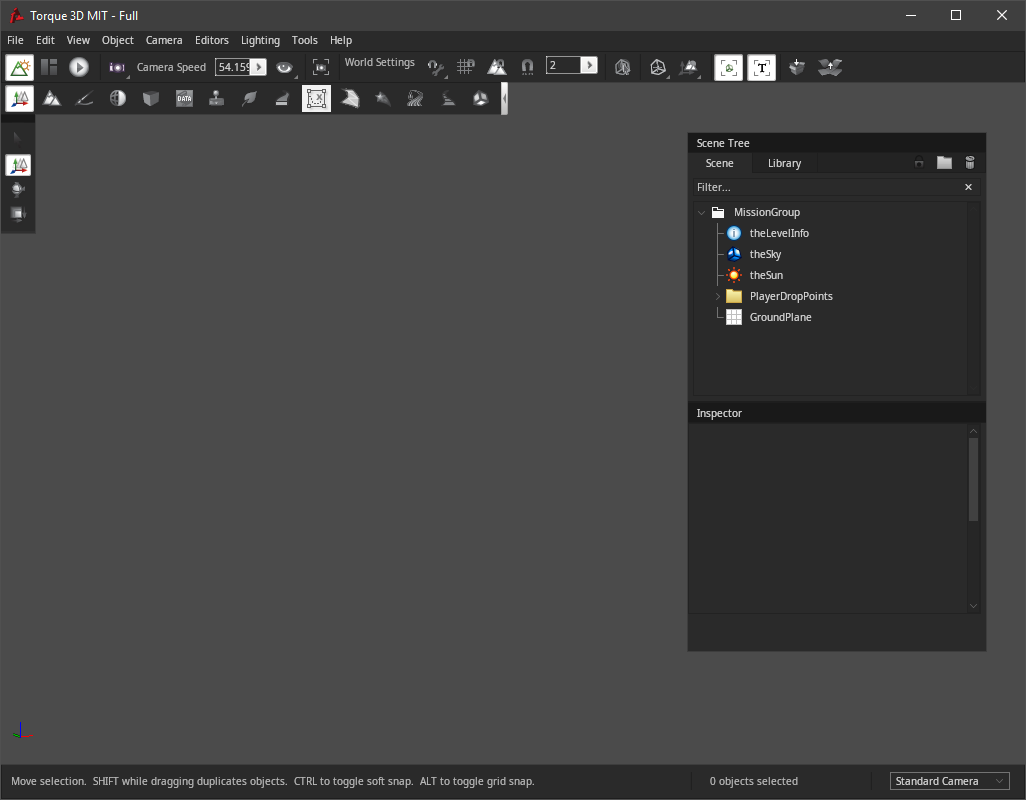
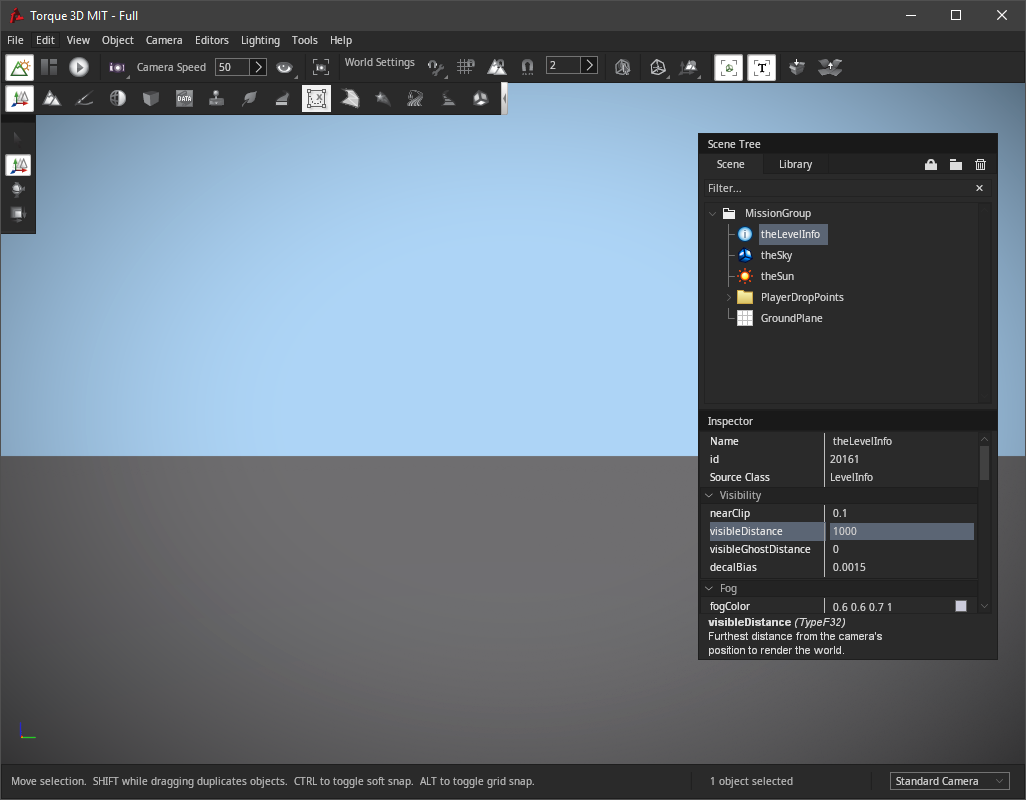
Finalize first windowed layout draft

diff --git a/full/dist/game/tools/gui/profiles.ed.cs b/full/dist/game/tools/gui/profiles.ed.cs
@@ -39,8 +39,8 @@ new GuiControlProfile (ToolsGuiDefaultProfile)
    // fill color
    opaque = false;
    fillColor = "42 42 42";
-   fillColorHL = "228 228 235";
-   fillColorSEL = "98 100 137";
+   fillColorHL = "91 101 116";
+   fillColorSEL = "91 101 116";
    fillColorNA = "255 0 255 ";
 
    // border color
@@ -118,15 +118,15 @@ if( !isObject( ToolsGuiToolTipProfile ) )
 new GuiControlProfile (ToolsGuiToolTipProfile)
 {
    // fill color
-   fillColor = "239 237 222";
+   fillColor = "255 255 255";
 
    // border color
-   borderColor   = "138 134 122";
+   borderColor   = "0 0 0";
 
    // font
    fontType = "Noto Sans";
    fontSize = 14;
-   fontColor = "215 215 215";
+   fontColor = "24 24 24";
 
    category = "Tools";
 };
@@ -273,9 +273,9 @@ new GuiControlProfile( ToolsGuiTextEditProfile )
    //borderWidth = "1";  // fix to display textEdit img
    //borderColor = "100 100 100";
    fillColor = "42 42 42 0";
-   fillColorHL = "255 255 255";
+   fillColorHL = "91 101 116";
    fontColor = "215 215 215";
-   fontColorHL = "255 255 255";
+   fontColorHL = "115 115 115";
    fontColorSEL = "98 100 137";
    fontColorNA = "200 200 200";
    textOffset = "4 2";
@@ -499,8 +499,8 @@ new GuiControlProfile( ToolsGuiPopUpMenuDefault : ToolsGuiDefaultProfile )
    hasBitmapArray = true;
    profileForChildren = ToolsGuiPopupMenuItemBorder;
    fillColor = "42 42 42";//"255 255 255";//100
-   fillColorHL = "228 228 235 ";//"204 203 202";
-   fillColorSEL = "98 100 137 ";//"204 203 202";
+   fillColorHL = "228 228 235 ";//"91 101 116";
+   fillColorSEL = "98 100 137 ";//"91 101 116";
    // font color is black
    fontColorHL = "215 215 215 ";//"215 215 215";
    fontColorSEL = "255 255 255";//"215 215 215";
@@ -679,11 +679,11 @@ singleton GuiControlProfile( GuiControlListPopupProfile )
 {
    opaque = true;
    fillColor = "42 42 42";
-   fillColorHL = "204 203 202";
+   fillColorHL = "91 101 116";
    border = false;
    //borderColor = "0 0 0";
    fontColor = "215 215 215";
-   fontColorHL = "215 215 215";
+   fontColorHL = "240 240 240";
    fontColorNA = "50 50 50";
    textOffset = "0 2";
    autoSizeWidth = false;
@@ -723,7 +723,7 @@ singleton GuiControlProfile( GuiInspectorTextEditProfile )
    // Transparent Background
    opaque = true;
    fillColor = "0 0 0 0";
-   fillColorHL = "255 255 255";
+   fillColorHL = "91 101 116";
 
    // No Border (Rendered by field control)
    border = false;
@@ -736,8 +736,8 @@ singleton GuiControlProfile( GuiInspectorTextEditProfile )
    fontSize = 14;
 
    fontColor = "215 215 215";
-   fontColorSEL = "43 107 206";
-   fontColorHL = "244 244 244";
+   fontColorSEL = "240 240 240";
+   fontColorHL = "240 240 240";
    fontColorNA = "100 100 100";
    category = "Editor";
 };
@@ -777,7 +777,7 @@ singleton GuiControlProfile( GuiInspectorFieldProfile)
    // fill color
    opaque = false;
    fillColor = "42 42 42";
-   fillColorHL = "204 203 202";
+   fillColorHL = "91 101 116";
    fillColorNA = "244 244 244";
 
    // border color
@@ -794,7 +794,7 @@ singleton GuiControlProfile( GuiInspectorFieldProfile)
    fontSize = 14;
 
    fontColor = "240 240 240";
-   fontColorHL = "150 150 150";
+   fontColorHL = "240 240 240";
    fontColorNA = "190 190 190";
    textOffset = "10 0";
 
@@ -822,7 +822,7 @@ singleton GuiControlProfile( GuiInspectorDynamicFieldProfile : GuiInspectorField
    // Transparent Background
    opaque = true;
    fillColor = "0 0 0 0";
-   fillColorHL = "255 255 255";
+   fillColorHL = "91 101 116";
 
    // No Border (Rendered by field control)
    border = false;
@@ -835,8 +835,8 @@ singleton GuiControlProfile( GuiInspectorDynamicFieldProfile : GuiInspectorField
    fontSize = 14;
 
    fontColor = "215 215 215";
-   fontColorSEL = "43 107 206";
-   fontColorHL = "244 244 244";
+   fontColorSEL = "240 240 240";
+   fontColorHL = "240 240 240";
    fontColorNA = "100 100 100";
    category = "Editor";
 };
@@ -930,11 +930,11 @@ singleton GuiControlProfile( GuiInspectorTypeFileNameProfile )
    justify = "center";
 
    fontColor = "240 240 240";
-   fontColorHL = "185 185 185";
+   fontColorHL = "240 240 240";
    fontColorNA = "215 215 215";
 
    fillColor = "42 42 42";
-   fillColorHL = "204 203 202";
+   fillColorHL = "91 101 116";
    fillColorNA = "244 244 244";
 
    borderColor   = "190 190 190";
